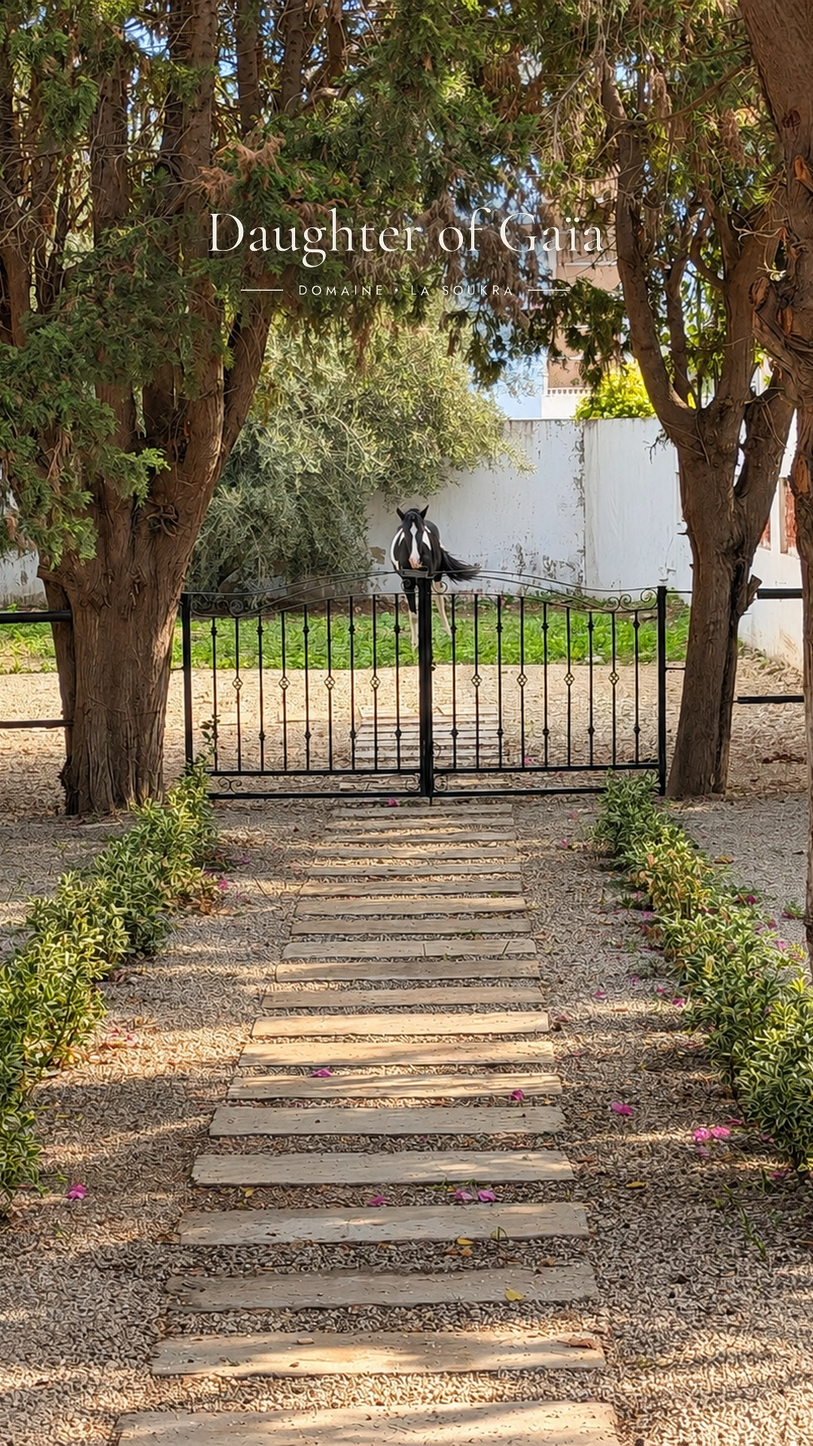
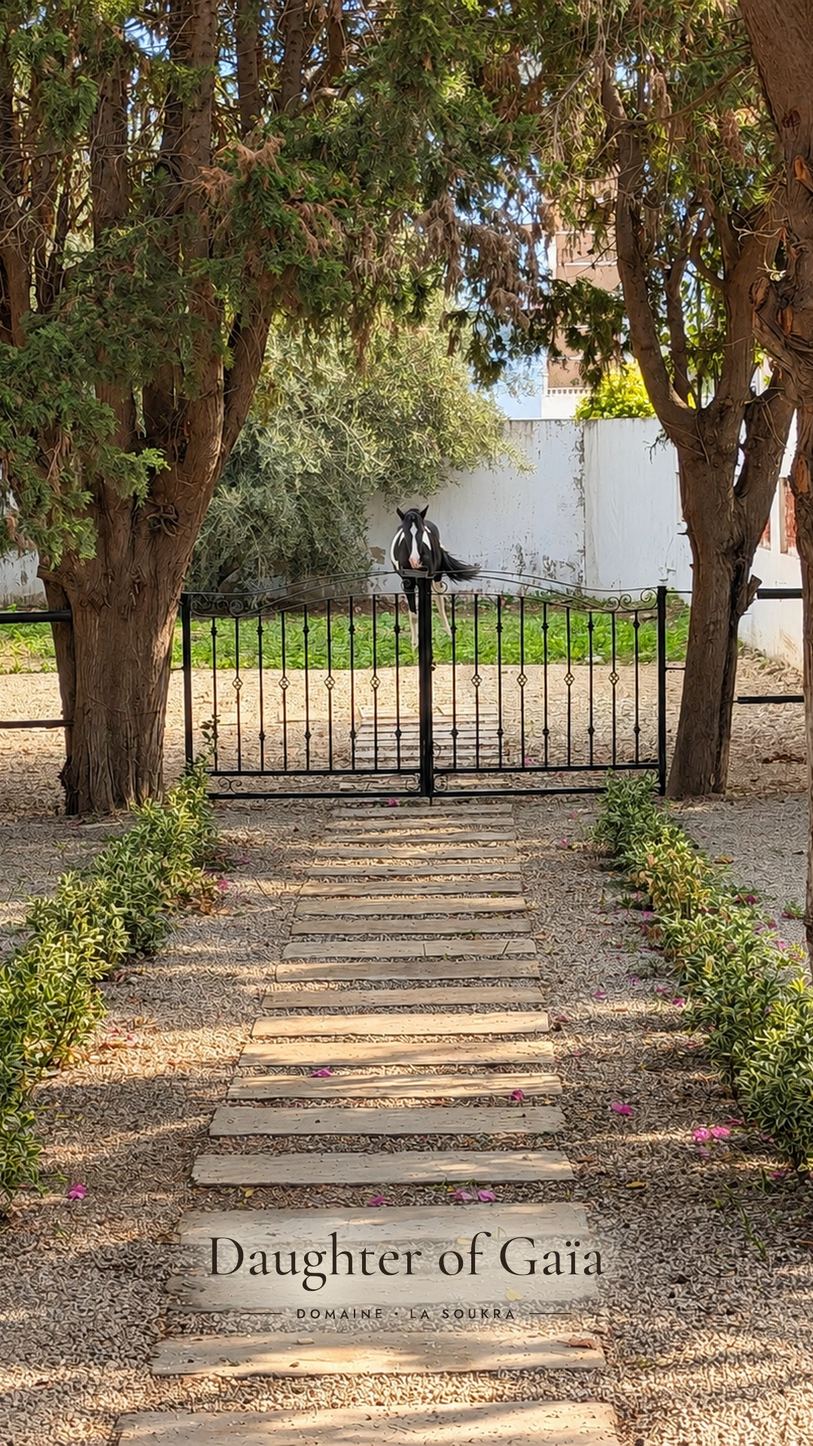
Story allée : la signature en bas, en brun foncé sur un halo sable
Claude-Session: https://claude.ai/code/session_01NbEMafBkY3AdMos4dxswM8

Changed region(s): [[0.2139, 0.8125, 0.7639, 0.9375], [0.2444, 0.125, 0.7639, 0.2188]]

diff --git a/instagram/story_allee.py b/instagram/story_allee.py
@@ -1,14 +1,14 @@
 """Story : l'allée qui mène au portail, et un cheval qui attend derrière.
 
-Plein écran. Tout le texte est en haut, sur le feuillage sombre : les pierres
-claires de l'allée, en bas, noient la signature.
+Plein écran. La phrase en blanc en haut, sur le feuillage sombre ; la
+signature en bas, en brun foncé, sur les pierres claires de l'allée.
 
     python3 instagram/story_allee.py
 """
 from pathlib import Path
-from PIL import Image, ImageDraw, ImageFont, ImageOps
+from PIL import Image, ImageDraw, ImageFilter, ImageFont, ImageOps
 
-from signature import BLANC, POLICES, signature
+from signature import BLANC, ENCRE, POLICES, SABLE, signature
 from story_video import ombre_douce
 
 RACINE = Path(__file__).resolve().parent
@@ -31,11 +31,18 @@ def story(phrase):
         for ligne in phrase:
             d.text((W / 2, y), ligne, font=f, fill=BLANC, anchor="mt")
             y += 86
-        y += 40
-    sig = signature(BLANC, BLANC, g_nom=450, g_lieu=500)
+    im = Image.alpha_composite(fond, ombre_douce(calque, force=0.8))
+    # Sur le gravier moucheté, l'encre seule se perd : un halo sable, large et
+    # doux, la détache du fond.
+    sig = signature(ENCRE, ENCRE, g_nom=500, g_lieu=600)
     sig = sig.resize((560, round(sig.height * 560 / sig.width)), Image.LANCZOS)
-    calque.paste(sig, ((W - sig.width) // 2, y), sig)
-    return Image.alpha_composite(fond, ombre_douce(calque, force=0.8)).convert("RGB")
+    pose = Image.new("RGBA", (W, H), (0, 0, 0, 0))
+    pose.paste(sig, ((W - sig.width) // 2, 1620), sig)
+    lueur = pose.getchannel("A").filter(ImageFilter.MaxFilter(21)).filter(ImageFilter.GaussianBlur(26))
+    halo = Image.new("RGBA", (W, H), SABLE)
+    halo.putalpha(lueur.point(lambda v: min(255, int(v * 1.1))))
+    im = Image.alpha_composite(Image.alpha_composite(im, halo), pose)
+    return im.convert("RGB")
 
 
 if __name__ == "__main__":
